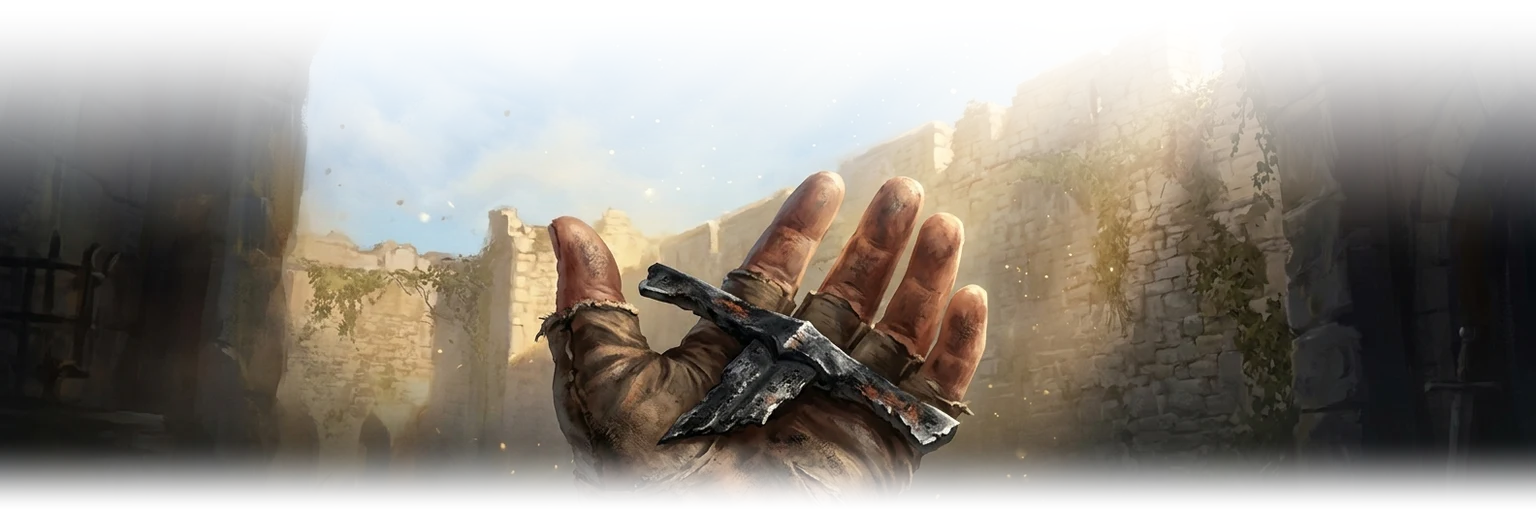
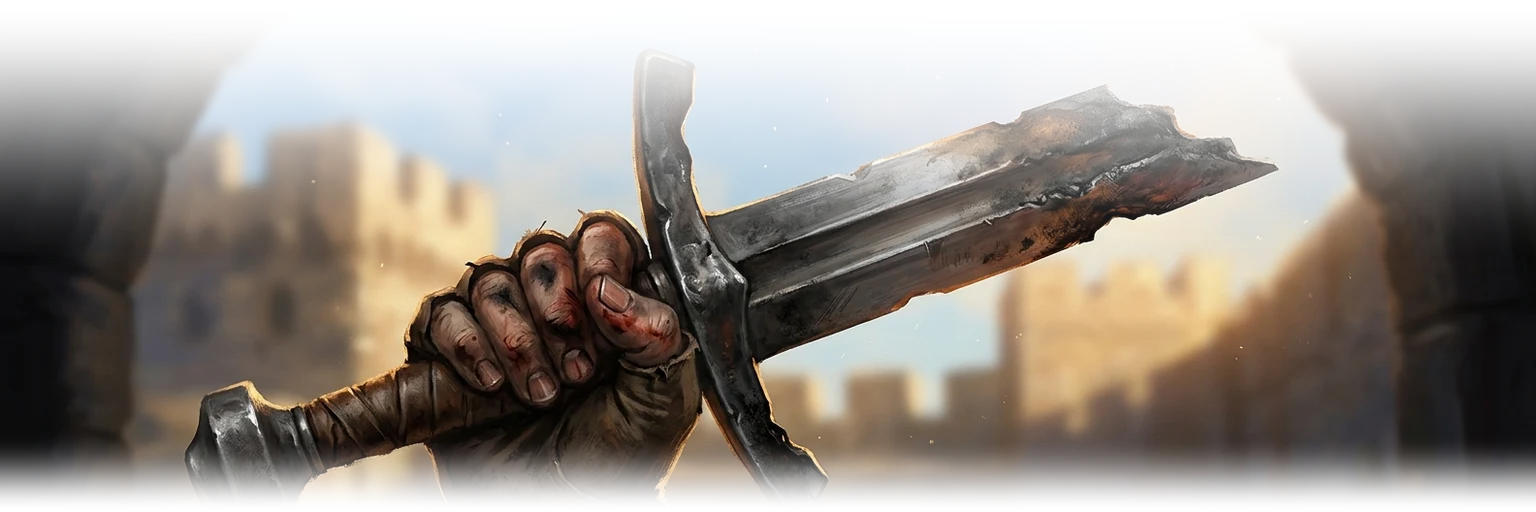
エピローグ帯絵を差し替え（折れた長剣）
Claude-Session: https://claude.ai/code/session_01U6RCeUyRPkXsPA3iMGBfiK

diff --git a/d/7cacfe2f4fa2ab5292eafa027fd28990/sw.js b/d/7cacfe2f4fa2ab5292eafa027fd28990/sw.js
@@ -1,4 +1,4 @@
-try{self[`workbox:core:7.4.0`]&&_()}catch{}var e=(e,...t)=>{let n=e;return t.length>0&&(n+=` :: ${JSON.stringify(t)}`),n},t=class extends Error{constructor(t,n){let r=e(t,n);super(r),this.name=t,this.details=n}},n=new Set,r={googleAnalytics:`googleAnalytics`,precache:`precache-v2`,prefix:`workbox`,runtime:`runtime`,suffix:typeof registration<`u`?registration.scope:``},i=e=>[r.prefix,e,r.suffix].filter(e=>e&&e.length>0).join(`-`),a=e=>{for(let t of Object.keys(r))e(t)},o={updateDetails:e=>{a(t=>{typeof e[t]==`string`&&(r[t]=e[t])})},getGoogleAnalyticsName:e=>e||i(r.googleAnalytics),getPrecacheName:e=>e||i(r.precache),getPrefix:()=>r.prefix,getRuntimeName:e=>e||i(r.runtime),getSuffix:()=>r.suffix};function s(e,t){let n=new URL(e);for(let e of t)n.searchParams.delete(e);return n.href}async function c(e,t,n,r){let i=s(t.url,n);if(t.url===i)return e.match(t,r);let a=Object.assign(Object.assign({},r),{ignoreSearch:!0}),o=await e.keys(t,a);for(let t of o)if(i===s(t.url,n))return e.match(t,r)}var l;function u(){if(l===void 0){let e=new Response(``);if(`body`in e)try{new Response(e.body),l=!0}catch{l=!1}l=!1}return l}var d=class{constructor(){this.promise=new Promise((e,t)=>{this.resolve=e,this.reject=t})}};async function f(){for(let e of n)await e()}var p=e=>new URL(String(e),location.href).href.replace(RegExp(`^${location.origin}`),``);function m(e){return new Promise(t=>setTimeout(t,e))}function h(e,t){let n=t();return e.waitUntil(n),n}var g={get googleAnalytics(){return o.getGoogleAnalyticsName()},get precache(){return o.getPrecacheName()},get prefix(){return o.getPrefix()},get runtime(){return o.getRuntimeName()},get suffix(){return o.getSuffix()}};async function v(e,n){let r=null;if(e.url&&(r=new URL(e.url).origin),r!==self.location.origin)throw new t(`cross-origin-copy-response`,{origin:r});let i=e.clone(),a={headers:new Headers(i.headers),status:i.status,statusText:i.statusText},o=n?n(a):a,s=u()?i.body:await i.blob();return new Response(s,o)}try{self[`workbox:precaching:7.4.0`]&&_()}catch{}var y=`__WB_REVISION__`;function b(e){if(!e)throw new t(`add-to-cache-list-unexpected-type`,{entry:e});if(typeof e==`string`){let t=new URL(e,location.href);return{cacheKey:t.href,url:t.href}}let{revision:n,url:r}=e;if(!r)throw new t(`add-to-cache-list-unexpected-type`,{entry:e});if(!n){let e=new URL(r,location.href);return{cacheKey:e.href,url:e.href}}let i=new URL(r,location.href),a=new URL(r,location.href);return i.searchParams.set(y,n),{cacheKey:i.href,url:a.href}}var x=class{constructor(){this.updatedURLs=[],this.notUpdatedURLs=[],this.handlerWillStart=async({request:e,state:t})=>{t&&(t.originalRequest=e)},this.cachedResponseWillBeUsed=async({event:e,state:t,cachedResponse:n})=>{if(e.type===`install`&&t&&t.originalRequest&&t.originalRequest instanceof Request){let e=t.originalRequest.url;n?this.notUpdatedURLs.push(e):this.updatedURLs.push(e)}return n}}},S=class{constructor({precacheController:e}){this.cacheKeyWillBeUsed=async({request:e,params:t})=>{let n=t?.cacheKey||this._precacheController.getCacheKeyForURL(e.url);return n?new Request(n,{headers:e.headers}):e},this._precacheController=e}};try{self[`workbox:strategies:7.4.0`]&&_()}catch{}function C(e){return typeof e==`string`?new Request(e):e}var w=class{constructor(e,t){this._cacheKeys={},Object.assign(this,t),this.event=t.event,this._strategy=e,this._handlerDeferred=new d,this._extendLifetimePromises=[],this._plugins=[...e.plugins],this._pluginStateMap=new Map;for(let e of this._plugins)this._pluginStateMap.set(e,{});this.event.waitUntil(this._handlerDeferred.promise)}async fetch(e){let{event:n}=this,r=C(e);if(r.mode===`navigate`&&n instanceof FetchEvent&&n.preloadResponse){let e=await n.preloadResponse;if(e)return e}let i=this.hasCallback(`fetchDidFail`)?r.clone():null;try{for(let e of this.iterateCallbacks(`requestWillFetch`))r=await e({request:r.clone(),event:n})}catch(e){if(e instanceof Error)throw new t(`plugin-error-request-will-fetch`,{thrownErrorMessage:e.message})}let a=r.clone();try{let e;e=await fetch(r,r.mode===`navigate`?void 0:this._strategy.fetchOptions);for(let t of this.iterateCallbacks(`fetchDidSucceed`))e=await t({event:n,request:a,response:e});return e}catch(e){throw i&&await this.runCallbacks(`fetchDidFail`,{error:e,event:n,originalRequest:i.clone(),request:a.clone()}),e}}async fetchAndCachePut(e){let t=await this.fetch(e),n=t.clone();return this.waitUntil(this.cachePut(e,n)),t}async cacheMatch(e){let t=C(e),n,{cacheName:r,matchOptions:i}=this._strategy,a=await this.getCacheKey(t,`read`),o=Object.assign(Object.assign({},i),{cacheName:r});n=await caches.match(a,o);for(let e of this.iterateCallbacks(`cachedResponseWillBeUsed`))n=await e({cacheName:r,matchOptions:i,cachedResponse:n,request:a,event:this.event})||void 0;return n}async cachePut(e,n){let r=C(e);await m(0);let i=await this.getCacheKey(r,`write`);if(!n)throw new t(`cache-put-with-no-response`,{url:p(i.url)});let a=await this._ensureResponseSafeToCache(n);if(!a)return!1;let{cacheName:o,matchOptions:s}=this._strategy,l=await self.caches.open(o),u=this.hasCallback(`cacheDidUpdate`),d=u?await c(l,i.clone(),[`__WB_REVISION__`],s):null;try{await l.put(i,u?a.clone():a)}catch(e){if(e instanceof Error)throw e.name===`QuotaExceededError`&&await f(),e}for(let e of this.iterateCallbacks(`cacheDidUpdate`))await e({cacheName:o,oldResponse:d,newResponse:a.clone(),request:i,event:this.event});return!0}async getCacheKey(e,t){let n=`${e.url} | ${t}`;if(!this._cacheKeys[n]){let r=e;for(let e of this.iterateCallbacks(`cacheKeyWillBeUsed`))r=C(await e({mode:t,request:r,event:this.event,params:this.params}));this._cacheKeys[n]=r}return this._cacheKeys[n]}hasCallback(e){for(let t of this._strategy.plugins)if(e in t)return!0;return!1}async runCallbacks(e,t){for(let n of this.iterateCallbacks(e))await n(t)}*iterateCallbacks(e){for(let t of this._strategy.plugins)if(typeof t[e]==`function`){let n=this._pluginStateMap.get(t);yield r=>{let i=Object.assign(Object.assign({},r),{state:n});return t[e](i)}}}waitUntil(e){return this._extendLifetimePromises.push(e),e}async doneWaiting(){for(;this._extendLifetimePromises.length;){let e=this._extendLifetimePromises.splice(0),t=(await Promise.allSettled(e)).find(e=>e.status===`rejected`);if(t)throw t.reason}}destroy(){this._handlerDeferred.resolve(null)}async _ensureResponseSafeToCache(e){let t=e,n=!1;for(let e of this.iterateCallbacks(`cacheWillUpdate`))if(t=await e({request:this.request,response:t,event:this.event})||void 0,n=!0,!t)break;return n||t&&t.status!==200&&(t=void 0),t}},T=class{constructor(e={}){this.cacheName=o.getRuntimeName(e.cacheName),this.plugins=e.plugins||[],this.fetchOptions=e.fetchOptions,this.matchOptions=e.matchOptions}handle(e){let[t]=this.handleAll(e);return t}handleAll(e){e instanceof FetchEvent&&(e={event:e,request:e.request});let t=e.event,n=typeof e.request==`string`?new Request(e.request):e.request,r=`params`in e?e.params:void 0,i=new w(this,{event:t,request:n,params:r}),a=this._getResponse(i,n,t);return[a,this._awaitComplete(a,i,n,t)]}async _getResponse(e,n,r){await e.runCallbacks(`handlerWillStart`,{event:r,request:n});let i;try{if(i=await this._handle(n,e),!i||i.type===`error`)throw new t(`no-response`,{url:n.url})}catch(t){if(t instanceof Error){for(let a of e.iterateCallbacks(`handlerDidError`))if(i=await a({error:t,event:r,request:n}),i)break}if(!i)throw t}for(let t of e.iterateCallbacks(`handlerWillRespond`))i=await t({event:r,request:n,response:i});return i}async _awaitComplete(e,t,n,r){let i,a;try{i=await e}catch{}try{await t.runCallbacks(`handlerDidRespond`,{event:r,request:n,response:i}),await t.doneWaiting()}catch(e){e instanceof Error&&(a=e)}if(await t.runCallbacks(`handlerDidComplete`,{event:r,request:n,response:i,error:a}),t.destroy(),a)throw a}},E=class e extends T{constructor(t={}){t.cacheName=o.getPrecacheName(t.cacheName),super(t),this._fallbackToNetwork=t.fallbackToNetwork!==!1,this.plugins.push(e.copyRedirectedCacheableResponsesPlugin)}async _handle(e,t){return await t.cacheMatch(e)||(t.event&&t.event.type===`install`?await this._handleInstall(e,t):await this._handleFetch(e,t))}async _handleFetch(e,n){let r,i=n.params||{};if(this._fallbackToNetwork){let t=i.integrity,a=e.integrity,o=!a||a===t;r=await n.fetch(new Request(e,{integrity:e.mode===`no-cors`?void 0:a||t})),t&&o&&e.mode!==`no-cors`&&(this._useDefaultCacheabilityPluginIfNeeded(),await n.cachePut(e,r.clone()))}else throw new t(`missing-precache-entry`,{cacheName:this.cacheName,url:e.url});return r}async _handleInstall(e,n){this._useDefaultCacheabilityPluginIfNeeded();let r=await n.fetch(e);if(!await n.cachePut(e,r.clone()))throw new t(`bad-precaching-response`,{url:e.url,status:r.status});return r}_useDefaultCacheabilityPluginIfNeeded(){let t=null,n=0;for(let[r,i]of this.plugins.entries())i!==e.copyRedirectedCacheableResponsesPlugin&&(i===e.defaultPrecacheCacheabilityPlugin&&(t=r),i.cacheWillUpdate&&n++);n===0?this.plugins.push(e.defaultPrecacheCacheabilityPlugin):n>1&&t!==null&&this.plugins.splice(t,1)}};E.defaultPrecacheCacheabilityPlugin={async cacheWillUpdate({response:e}){return!e||e.status>=400?null:e}},E.copyRedirectedCacheableResponsesPlugin={async cacheWillUpdate({response:e}){return e.redirected?await v(e):e}};var D=class{constructor({cacheName:e,plugins:t=[],fallbackToNetwork:n=!0}={}){this._urlsToCacheKeys=new Map,this._urlsToCacheModes=new Map,this._cacheKeysToIntegrities=new Map,this._strategy=new E({cacheName:o.getPrecacheName(e),plugins:[...t,new S({precacheController:this})],fallbackToNetwork:n}),this.install=this.install.bind(this),this.activate=this.activate.bind(this)}get strategy(){return this._strategy}precache(e){this.addToCacheList(e),this._installAndActiveListenersAdded||=(self.addEventListener(`install`,this.install),self.addEventListener(`activate`,this.activate),!0)}addToCacheList(e){let n=[];for(let r of e){typeof r==`string`?n.push(r):r&&r.revision===void 0&&n.push(r.url);let{cacheKey:e,url:i}=b(r),a=typeof r!=`string`&&r.revision?`reload`:`default`;if(this._urlsToCacheKeys.has(i)&&this._urlsToCacheKeys.get(i)!==e)throw new t(`add-to-cache-list-conflicting-entries`,{firstEntry:this._urlsToCacheKeys.get(i),secondEntry:e});if(typeof r!=`string`&&r.integrity){if(this._cacheKeysToIntegrities.has(e)&&this._cacheKeysToIntegrities.get(e)!==r.integrity)throw new t(`add-to-cache-list-conflicting-integrities`,{url:i});this._cacheKeysToIntegrities.set(e,r.integrity)}if(this._urlsToCacheKeys.set(i,e),this._urlsToCacheModes.set(i,a),n.length>0){let e=`Workbox is precaching URLs without revision info: ${n.join(`, `)}\nThis is generally NOT safe. Learn more at https://bit.ly/wb-precache`;console.warn(e)}}}install(e){return h(e,async()=>{let t=new x;this.strategy.plugins.push(t);for(let[t,n]of this._urlsToCacheKeys){let r=this._cacheKeysToIntegrities.get(n),i=this._urlsToCacheModes.get(t),a=new Request(t,{integrity:r,cache:i,credentials:`same-origin`});await Promise.all(this.strategy.handleAll({params:{cacheKey:n},request:a,event:e}))}let{updatedURLs:n,notUpdatedURLs:r}=t;return{updatedURLs:n,notUpdatedURLs:r}})}activate(e){return h(e,async()=>{let e=await self.caches.open(this.strategy.cacheName),t=await e.keys(),n=new Set(this._urlsToCacheKeys.values()),r=[];for(let i of t)n.has(i.url)||(await e.delete(i),r.push(i.url));return{deletedURLs:r}})}getURLsToCacheKeys(){return this._urlsToCacheKeys}getCachedURLs(){return[...this._urlsToCacheKeys.keys()]}getCacheKeyForURL(e){let t=new URL(e,location.href);return this._urlsToCacheKeys.get(t.href)}getIntegrityForCacheKey(e){return this._cacheKeysToIntegrities.get(e)}async matchPrecache(e){let t=e instanceof Request?e.url:e,n=this.getCacheKeyForURL(t);if(n)return(await self.caches.open(this.strategy.cacheName)).match(n)}createHandlerBoundToURL(e){let n=this.getCacheKeyForURL(e);if(!n)throw new t(`non-precached-url`,{url:e});return t=>(t.request=new Request(e),t.params=Object.assign({cacheKey:n},t.params),this.strategy.handle(t))}},O,k=()=>(O||=new D,O);try{self[`workbox:routing:7.4.0`]&&_()}catch{}var A=e=>e&&typeof e==`object`?e:{handle:e},j=class{constructor(e,t,n=`GET`){this.handler=A(t),this.match=e,this.method=n}setCatchHandler(e){this.catchHandler=A(e)}},M=class extends j{constructor(e,t,n){super(({url:t})=>{let n=e.exec(t.href);if(n&&(t.origin===location.origin||n.index===0))return n.slice(1)},t,n)}},N=class{constructor(){this._routes=new Map,this._defaultHandlerMap=new Map}get routes(){return this._routes}addFetchListener(){self.addEventListener(`fetch`,(e=>{let{request:t}=e,n=this.handleRequest({request:t,event:e});n&&e.respondWith(n)}))}addCacheListener(){self.addEventListener(`message`,(e=>{if(e.data&&e.data.type===`CACHE_URLS`){let{payload:t}=e.data,n=Promise.all(t.urlsToCache.map(t=>{typeof t==`string`&&(t=[t]);let n=new Request(...t);return this.handleRequest({request:n,event:e})}));e.waitUntil(n),e.ports&&e.ports[0]&&n.then(()=>e.ports[0].postMessage(!0))}}))}handleRequest({request:e,event:t}){let n=new URL(e.url,location.href);if(!n.protocol.startsWith(`http`))return;let r=n.origin===location.origin,{params:i,route:a}=this.findMatchingRoute({event:t,request:e,sameOrigin:r,url:n}),o=a&&a.handler,s=e.method;if(!o&&this._defaultHandlerMap.has(s)&&(o=this._defaultHandlerMap.get(s)),!o)return;let c;try{c=o.handle({url:n,request:e,event:t,params:i})}catch(e){c=Promise.reject(e)}let l=a&&a.catchHandler;return c instanceof Promise&&(this._catchHandler||l)&&(c=c.catch(async r=>{if(l)try{return await l.handle({url:n,request:e,event:t,params:i})}catch(e){e instanceof Error&&(r=e)}if(this._catchHandler)return this._catchHandler.handle({url:n,request:e,event:t});throw r})),c}findMatchingRoute({url:e,sameOrigin:t,request:n,event:r}){let i=this._routes.get(n.method)||[];for(let a of i){let i,o=a.match({url:e,sameOrigin:t,request:n,event:r});if(o)return i=o,(Array.isArray(i)&&i.length===0||o.constructor===Object&&Object.keys(o).length===0||typeof o==`boolean`)&&(i=void 0),{route:a,params:i}}return{}}setDefaultHandler(e,t=`GET`){this._defaultHandlerMap.set(t,A(e))}setCatchHandler(e){this._catchHandler=A(e)}registerRoute(e){this._routes.has(e.method)||this._routes.set(e.method,[]),this._routes.get(e.method).push(e)}unregisterRoute(e){if(!this._routes.has(e.method))throw new t(`unregister-route-but-not-found-with-method`,{method:e.method});let n=this._routes.get(e.method).indexOf(e);if(n>-1)this._routes.get(e.method).splice(n,1);else throw new t(`unregister-route-route-not-registered`)}},P,F=()=>(P||(P=new N,P.addFetchListener(),P.addCacheListener()),P);function I(e,n,r){let i;if(typeof e==`string`){let t=new URL(e,location.href);i=new j(({url:e})=>e.href===t.href,n,r)}else if(e instanceof RegExp)i=new M(e,n,r);else if(typeof e==`function`)i=new j(e,n,r);else if(e instanceof j)i=e;else throw new t(`unsupported-route-type`,{moduleName:`workbox-routing`,funcName:`registerRoute`,paramName:`capture`});return F().registerRoute(i),i}function L(e,t=[]){for(let n of[...e.searchParams.keys()])t.some(e=>e.test(n))&&e.searchParams.delete(n);return e}function*R(e,{ignoreURLParametersMatching:t=[/^utm_/,/^fbclid$/],directoryIndex:n=`index.html`,cleanURLs:r=!0,urlManipulation:i}={}){let a=new URL(e,location.href);a.hash=``,yield a.href;let o=L(a,t);if(yield o.href,n&&o.pathname.endsWith(`/`)){let e=new URL(o.href);e.pathname+=n,yield e.href}if(r){let e=new URL(o.href);e.pathname+=`.html`,yield e.href}if(i){let e=i({url:a});for(let t of e)yield t.href}}var z=class extends j{constructor(e,t){super(({request:n})=>{let r=e.getURLsToCacheKeys();for(let i of R(n.url,t)){let t=r.get(i);if(t)return{cacheKey:t,integrity:e.getIntegrityForCacheKey(t)}}},e.strategy)}};function B(e){I(new z(k(),e))}var V=`-precache-`,H=async(e,t=V)=>{let n=(await self.caches.keys()).filter(n=>n.includes(t)&&n.includes(self.registration.scope)&&n!==e);return await Promise.all(n.map(e=>self.caches.delete(e))),n};function U(){self.addEventListener(`activate`,(e=>{let t=o.getPrecacheName();e.waitUntil(H(t).then(e=>{}))}))}function W(e){return k().getCacheKeyForURL(e)}function G(e){return k().matchPrecache(e)}function K(e){k().precache(e)}function q(e,t){K(e),B(t)}var J=class extends j{constructor(e,{allowlist:t=[/./],denylist:n=[]}={}){super(e=>this._match(e),e),this._allowlist=t,this._denylist=n}_match({url:e,request:t}){if(t&&t.mode!==`navigate`)return!1;let n=e.pathname+e.search;for(let e of this._denylist)if(e.test(n))return!1;return!!this._allowlist.some(e=>e.test(n))}};function Y(e){F().setCatchHandler(e)}self.addEventListener(`message`,e=>{let t=e.data;t&&t.type===`SKIP_WAITING`&&self.skipWaiting(),t&&t.type===`FILL_PRECACHE`&&Array.isArray(t.urls)&&e.waitUntil(Z(t.urls.filter(e=>typeof e==`string`)))});async function X(e){for(let t of await self.clients.matchAll({includeUncontrolled:!0}))t.postMessage(e)}async function Z(e){let t=0,n=0,r=[...e],i=await caches.open(g.precache),a=async()=>{for(let a=r.shift();a!==void 0;a=r.shift()){try{let e=W(a),n=await fetch(a,{cache:`reload`});if(!e||!n.ok)throw Error(`fill failed`);await i.put(e,n),t++}catch{n++}await X({type:`FILL_PROGRESS`,done:t,failed:n,total:e.length})}};await Promise.all([a(),a(),a()]),await X({type:`FILL_DONE`,done:t,failed:n,total:e.length})}q([{"revision":"0c88d52f09954a22c233f74bddeaaa61","url":"manifest.webmanifest"},{"revision":"cb8472b5186c04734b51cc1546747417","url":"index.html"},{"revision":"128bbd2f0bfda005caa441e8e0f72903","url":"boot.js"},{"revision":"692b73f61dd24c16834ab385b7aad472","url":"sound/closing-signature.mp3"},{"revision":"abb7c5c26623e0d0ba377c5e5323c737","url":"icons/logo-text-vertical.svg"},{"revision":"f039940881be81382256a1e7798a43cf","url":"icons/logo-line-white.svg"},{"revision":"16fb2e72044edc5bb2e76f9b40d3dd2d","url":"icons/logo-line-indigo.svg"},{"revision":"9e8f2e5fd69c49d7d546e433b34d9099","url":"icons/icon-maskable-512.png"},{"revision":"515f3d79556d4fbc8fdc556234860abd","url":"icons/icon-512.png"},{"revision":"6dd3e358425fd785992253873db7137b","url":"icons/icon-192.png"},{"revision":"7c0b23e6b033e2606c454a51c6e9ddfe","url":"icons/apple-touch-icon.png"},{"revision":"00c94ed98bd5f1badda619d71238a2f2","url":"book/data.json"},{"revision":"1abefc9fbabf1e7f75cb65bc6e7fd884","url":"book/cover-art.webp"},{"revision":"4cf5fea75f1ef52e5eef8a53cb3209e7","url":"book/bg/ch5-bottom.webp"},{"revision":"57db860c6472dc568d8274222910b3c7","url":"book/bg/ch4-bottom.webp"},{"revision":"bfe3596763626d6c15cd3fd8ccbb17ba","url":"book/bg/ch3-bottom.webp"},{"revision":"cc403f52c908a366ca22b0839337bd8d","url":"book/bg/ch2-bottom.webp"},{"revision":"4803b5c3dec068edbc5b78518470c419","url":"book/bg/ch1-bottom.webp"},{"revision":"69089dc644f3504a091f57dcd25a1e07","url":"book/audio/title-call.mp3"},{"revision":"b90d2f422c8fd67a41028b648ee75959","url":"book/audio/ch5.mp3"},{"revision":"7141acca2a879bbc53f1c5b95e614ede","url":"book/audio/ch5-title.mp3"},{"revision":"4b905ddf7f1a76ce77707ba5d422afe7","url":"book/audio/ch4.mp3"},{"revision":"46587c493b6eb02155a00aad827945d8","url":"book/audio/ch4-title.mp3"},{"revision":"17931c713d91750b7e45cdebbdc522a0","url":"book/audio/ch3.mp3"},{"revision":"dff735ace5d8e02e5ca7d700fc48b785","url":"book/audio/ch3-title.mp3"},{"revision":"a3263720e9a637480ed9da3f402c6ca8","url":"book/audio/ch2.mp3"},{"revision":"ee58a877fc0f980660f01c43298845e4","url":"book/audio/ch2-title.mp3"},{"revision":"4fcf12d293cff6db9e01695c3e08c87b","url":"book/audio/ch1.mp3"},{"revision":"d203909cba635fdc4e14670fd4a06e7a","url":"book/audio/ch1-title.mp3"},{"revision":"ccd1ef48c0fcc8cd2002d793ba48fdc4","url":"bgm/loop.mp3"},{"revision":null,"url":"assets/workbox-window.prod.es5-Bd17z0YL.js"},{"revision":null,"url":"assets/index-kbH-_b36.css"},{"revision":null,"url":"assets/index-D9DEekBh.js"},{"revision":"7c0b23e6b033e2606c454a51c6e9ddfe","url":"icons/apple-touch-icon.png"},{"revision":"6dd3e358425fd785992253873db7137b","url":"icons/icon-192.png"},{"revision":"515f3d79556d4fbc8fdc556234860abd","url":"icons/icon-512.png"},{"revision":"9e8f2e5fd69c49d7d546e433b34d9099","url":"icons/icon-maskable-512.png"},{"revision":"0c88d52f09954a22c233f74bddeaaa61","url":"manifest.webmanifest"}]),U();var Q=`<!doctype html>
+try{self[`workbox:core:7.4.0`]&&_()}catch{}var e=(e,...t)=>{let n=e;return t.length>0&&(n+=` :: ${JSON.stringify(t)}`),n},t=class extends Error{constructor(t,n){let r=e(t,n);super(r),this.name=t,this.details=n}},n=new Set,r={googleAnalytics:`googleAnalytics`,precache:`precache-v2`,prefix:`workbox`,runtime:`runtime`,suffix:typeof registration<`u`?registration.scope:``},i=e=>[r.prefix,e,r.suffix].filter(e=>e&&e.length>0).join(`-`),a=e=>{for(let t of Object.keys(r))e(t)},o={updateDetails:e=>{a(t=>{typeof e[t]==`string`&&(r[t]=e[t])})},getGoogleAnalyticsName:e=>e||i(r.googleAnalytics),getPrecacheName:e=>e||i(r.precache),getPrefix:()=>r.prefix,getRuntimeName:e=>e||i(r.runtime),getSuffix:()=>r.suffix};function s(e,t){let n=new URL(e);for(let e of t)n.searchParams.delete(e);return n.href}async function c(e,t,n,r){let i=s(t.url,n);if(t.url===i)return e.match(t,r);let a=Object.assign(Object.assign({},r),{ignoreSearch:!0}),o=await e.keys(t,a);for(let t of o)if(i===s(t.url,n))return e.match(t,r)}var l;function u(){if(l===void 0){let e=new Response(``);if(`body`in e)try{new Response(e.body),l=!0}catch{l=!1}l=!1}return l}var d=class{constructor(){this.promise=new Promise((e,t)=>{this.resolve=e,this.reject=t})}};async function f(){for(let e of n)await e()}var p=e=>new URL(String(e),location.href).href.replace(RegExp(`^${location.origin}`),``);function m(e){return new Promise(t=>setTimeout(t,e))}function h(e,t){let n=t();return e.waitUntil(n),n}var g={get googleAnalytics(){return o.getGoogleAnalyticsName()},get precache(){return o.getPrecacheName()},get prefix(){return o.getPrefix()},get runtime(){return o.getRuntimeName()},get suffix(){return o.getSuffix()}};async function v(e,n){let r=null;if(e.url&&(r=new URL(e.url).origin),r!==self.location.origin)throw new t(`cross-origin-copy-response`,{origin:r});let i=e.clone(),a={headers:new Headers(i.headers),status:i.status,statusText:i.statusText},o=n?n(a):a,s=u()?i.body:await i.blob();return new Response(s,o)}try{self[`workbox:precaching:7.4.0`]&&_()}catch{}var y=`__WB_REVISION__`;function b(e){if(!e)throw new t(`add-to-cache-list-unexpected-type`,{entry:e});if(typeof e==`string`){let t=new URL(e,location.href);return{cacheKey:t.href,url:t.href}}let{revision:n,url:r}=e;if(!r)throw new t(`add-to-cache-list-unexpected-type`,{entry:e});if(!n){let e=new URL(r,location.href);return{cacheKey:e.href,url:e.href}}let i=new URL(r,location.href),a=new URL(r,location.href);return i.searchParams.set(y,n),{cacheKey:i.href,url:a.href}}var x=class{constructor(){this.updatedURLs=[],this.notUpdatedURLs=[],this.handlerWillStart=async({request:e,state:t})=>{t&&(t.originalRequest=e)},this.cachedResponseWillBeUsed=async({event:e,state:t,cachedResponse:n})=>{if(e.type===`install`&&t&&t.originalRequest&&t.originalRequest instanceof Request){let e=t.originalRequest.url;n?this.notUpdatedURLs.push(e):this.updatedURLs.push(e)}return n}}},S=class{constructor({precacheController:e}){this.cacheKeyWillBeUsed=async({request:e,params:t})=>{let n=t?.cacheKey||this._precacheController.getCacheKeyForURL(e.url);return n?new Request(n,{headers:e.headers}):e},this._precacheController=e}};try{self[`workbox:strategies:7.4.0`]&&_()}catch{}function C(e){return typeof e==`string`?new Request(e):e}var w=class{constructor(e,t){this._cacheKeys={},Object.assign(this,t),this.event=t.event,this._strategy=e,this._handlerDeferred=new d,this._extendLifetimePromises=[],this._plugins=[...e.plugins],this._pluginStateMap=new Map;for(let e of this._plugins)this._pluginStateMap.set(e,{});this.event.waitUntil(this._handlerDeferred.promise)}async fetch(e){let{event:n}=this,r=C(e);if(r.mode===`navigate`&&n instanceof FetchEvent&&n.preloadResponse){let e=await n.preloadResponse;if(e)return e}let i=this.hasCallback(`fetchDidFail`)?r.clone():null;try{for(let e of this.iterateCallbacks(`requestWillFetch`))r=await e({request:r.clone(),event:n})}catch(e){if(e instanceof Error)throw new t(`plugin-error-request-will-fetch`,{thrownErrorMessage:e.message})}let a=r.clone();try{let e;e=await fetch(r,r.mode===`navigate`?void 0:this._strategy.fetchOptions);for(let t of this.iterateCallbacks(`fetchDidSucceed`))e=await t({event:n,request:a,response:e});return e}catch(e){throw i&&await this.runCallbacks(`fetchDidFail`,{error:e,event:n,originalRequest:i.clone(),request:a.clone()}),e}}async fetchAndCachePut(e){let t=await this.fetch(e),n=t.clone();return this.waitUntil(this.cachePut(e,n)),t}async cacheMatch(e){let t=C(e),n,{cacheName:r,matchOptions:i}=this._strategy,a=await this.getCacheKey(t,`read`),o=Object.assign(Object.assign({},i),{cacheName:r});n=await caches.match(a,o);for(let e of this.iterateCallbacks(`cachedResponseWillBeUsed`))n=await e({cacheName:r,matchOptions:i,cachedResponse:n,request:a,event:this.event})||void 0;return n}async cachePut(e,n){let r=C(e);await m(0);let i=await this.getCacheKey(r,`write`);if(!n)throw new t(`cache-put-with-no-response`,{url:p(i.url)});let a=await this._ensureResponseSafeToCache(n);if(!a)return!1;let{cacheName:o,matchOptions:s}=this._strategy,l=await self.caches.open(o),u=this.hasCallback(`cacheDidUpdate`),d=u?await c(l,i.clone(),[`__WB_REVISION__`],s):null;try{await l.put(i,u?a.clone():a)}catch(e){if(e instanceof Error)throw e.name===`QuotaExceededError`&&await f(),e}for(let e of this.iterateCallbacks(`cacheDidUpdate`))await e({cacheName:o,oldResponse:d,newResponse:a.clone(),request:i,event:this.event});return!0}async getCacheKey(e,t){let n=`${e.url} | ${t}`;if(!this._cacheKeys[n]){let r=e;for(let e of this.iterateCallbacks(`cacheKeyWillBeUsed`))r=C(await e({mode:t,request:r,event:this.event,params:this.params}));this._cacheKeys[n]=r}return this._cacheKeys[n]}hasCallback(e){for(let t of this._strategy.plugins)if(e in t)return!0;return!1}async runCallbacks(e,t){for(let n of this.iterateCallbacks(e))await n(t)}*iterateCallbacks(e){for(let t of this._strategy.plugins)if(typeof t[e]==`function`){let n=this._pluginStateMap.get(t);yield r=>{let i=Object.assign(Object.assign({},r),{state:n});return t[e](i)}}}waitUntil(e){return this._extendLifetimePromises.push(e),e}async doneWaiting(){for(;this._extendLifetimePromises.length;){let e=this._extendLifetimePromises.splice(0),t=(await Promise.allSettled(e)).find(e=>e.status===`rejected`);if(t)throw t.reason}}destroy(){this._handlerDeferred.resolve(null)}async _ensureResponseSafeToCache(e){let t=e,n=!1;for(let e of this.iterateCallbacks(`cacheWillUpdate`))if(t=await e({request:this.request,response:t,event:this.event})||void 0,n=!0,!t)break;return n||t&&t.status!==200&&(t=void 0),t}},T=class{constructor(e={}){this.cacheName=o.getRuntimeName(e.cacheName),this.plugins=e.plugins||[],this.fetchOptions=e.fetchOptions,this.matchOptions=e.matchOptions}handle(e){let[t]=this.handleAll(e);return t}handleAll(e){e instanceof FetchEvent&&(e={event:e,request:e.request});let t=e.event,n=typeof e.request==`string`?new Request(e.request):e.request,r=`params`in e?e.params:void 0,i=new w(this,{event:t,request:n,params:r}),a=this._getResponse(i,n,t);return[a,this._awaitComplete(a,i,n,t)]}async _getResponse(e,n,r){await e.runCallbacks(`handlerWillStart`,{event:r,request:n});let i;try{if(i=await this._handle(n,e),!i||i.type===`error`)throw new t(`no-response`,{url:n.url})}catch(t){if(t instanceof Error){for(let a of e.iterateCallbacks(`handlerDidError`))if(i=await a({error:t,event:r,request:n}),i)break}if(!i)throw t}for(let t of e.iterateCallbacks(`handlerWillRespond`))i=await t({event:r,request:n,response:i});return i}async _awaitComplete(e,t,n,r){let i,a;try{i=await e}catch{}try{await t.runCallbacks(`handlerDidRespond`,{event:r,request:n,response:i}),await t.doneWaiting()}catch(e){e instanceof Error&&(a=e)}if(await t.runCallbacks(`handlerDidComplete`,{event:r,request:n,response:i,error:a}),t.destroy(),a)throw a}},E=class e extends T{constructor(t={}){t.cacheName=o.getPrecacheName(t.cacheName),super(t),this._fallbackToNetwork=t.fallbackToNetwork!==!1,this.plugins.push(e.copyRedirectedCacheableResponsesPlugin)}async _handle(e,t){return await t.cacheMatch(e)||(t.event&&t.event.type===`install`?await this._handleInstall(e,t):await this._handleFetch(e,t))}async _handleFetch(e,n){let r,i=n.params||{};if(this._fallbackToNetwork){let t=i.integrity,a=e.integrity,o=!a||a===t;r=await n.fetch(new Request(e,{integrity:e.mode===`no-cors`?void 0:a||t})),t&&o&&e.mode!==`no-cors`&&(this._useDefaultCacheabilityPluginIfNeeded(),await n.cachePut(e,r.clone()))}else throw new t(`missing-precache-entry`,{cacheName:this.cacheName,url:e.url});return r}async _handleInstall(e,n){this._useDefaultCacheabilityPluginIfNeeded();let r=await n.fetch(e);if(!await n.cachePut(e,r.clone()))throw new t(`bad-precaching-response`,{url:e.url,status:r.status});return r}_useDefaultCacheabilityPluginIfNeeded(){let t=null,n=0;for(let[r,i]of this.plugins.entries())i!==e.copyRedirectedCacheableResponsesPlugin&&(i===e.defaultPrecacheCacheabilityPlugin&&(t=r),i.cacheWillUpdate&&n++);n===0?this.plugins.push(e.defaultPrecacheCacheabilityPlugin):n>1&&t!==null&&this.plugins.splice(t,1)}};E.defaultPrecacheCacheabilityPlugin={async cacheWillUpdate({response:e}){return!e||e.status>=400?null:e}},E.copyRedirectedCacheableResponsesPlugin={async cacheWillUpdate({response:e}){return e.redirected?await v(e):e}};var D=class{constructor({cacheName:e,plugins:t=[],fallbackToNetwork:n=!0}={}){this._urlsToCacheKeys=new Map,this._urlsToCacheModes=new Map,this._cacheKeysToIntegrities=new Map,this._strategy=new E({cacheName:o.getPrecacheName(e),plugins:[...t,new S({precacheController:this})],fallbackToNetwork:n}),this.install=this.install.bind(this),this.activate=this.activate.bind(this)}get strategy(){return this._strategy}precache(e){this.addToCacheList(e),this._installAndActiveListenersAdded||=(self.addEventListener(`install`,this.install),self.addEventListener(`activate`,this.activate),!0)}addToCacheList(e){let n=[];for(let r of e){typeof r==`string`?n.push(r):r&&r.revision===void 0&&n.push(r.url);let{cacheKey:e,url:i}=b(r),a=typeof r!=`string`&&r.revision?`reload`:`default`;if(this._urlsToCacheKeys.has(i)&&this._urlsToCacheKeys.get(i)!==e)throw new t(`add-to-cache-list-conflicting-entries`,{firstEntry:this._urlsToCacheKeys.get(i),secondEntry:e});if(typeof r!=`string`&&r.integrity){if(this._cacheKeysToIntegrities.has(e)&&this._cacheKeysToIntegrities.get(e)!==r.integrity)throw new t(`add-to-cache-list-conflicting-integrities`,{url:i});this._cacheKeysToIntegrities.set(e,r.integrity)}if(this._urlsToCacheKeys.set(i,e),this._urlsToCacheModes.set(i,a),n.length>0){let e=`Workbox is precaching URLs without revision info: ${n.join(`, `)}\nThis is generally NOT safe. Learn more at https://bit.ly/wb-precache`;console.warn(e)}}}install(e){return h(e,async()=>{let t=new x;this.strategy.plugins.push(t);for(let[t,n]of this._urlsToCacheKeys){let r=this._cacheKeysToIntegrities.get(n),i=this._urlsToCacheModes.get(t),a=new Request(t,{integrity:r,cache:i,credentials:`same-origin`});await Promise.all(this.strategy.handleAll({params:{cacheKey:n},request:a,event:e}))}let{updatedURLs:n,notUpdatedURLs:r}=t;return{updatedURLs:n,notUpdatedURLs:r}})}activate(e){return h(e,async()=>{let e=await self.caches.open(this.strategy.cacheName),t=await e.keys(),n=new Set(this._urlsToCacheKeys.values()),r=[];for(let i of t)n.has(i.url)||(await e.delete(i),r.push(i.url));return{deletedURLs:r}})}getURLsToCacheKeys(){return this._urlsToCacheKeys}getCachedURLs(){return[...this._urlsToCacheKeys.keys()]}getCacheKeyForURL(e){let t=new URL(e,location.href);return this._urlsToCacheKeys.get(t.href)}getIntegrityForCacheKey(e){return this._cacheKeysToIntegrities.get(e)}async matchPrecache(e){let t=e instanceof Request?e.url:e,n=this.getCacheKeyForURL(t);if(n)return(await self.caches.open(this.strategy.cacheName)).match(n)}createHandlerBoundToURL(e){let n=this.getCacheKeyForURL(e);if(!n)throw new t(`non-precached-url`,{url:e});return t=>(t.request=new Request(e),t.params=Object.assign({cacheKey:n},t.params),this.strategy.handle(t))}},O,k=()=>(O||=new D,O);try{self[`workbox:routing:7.4.0`]&&_()}catch{}var A=e=>e&&typeof e==`object`?e:{handle:e},j=class{constructor(e,t,n=`GET`){this.handler=A(t),this.match=e,this.method=n}setCatchHandler(e){this.catchHandler=A(e)}},M=class extends j{constructor(e,t,n){super(({url:t})=>{let n=e.exec(t.href);if(n&&(t.origin===location.origin||n.index===0))return n.slice(1)},t,n)}},N=class{constructor(){this._routes=new Map,this._defaultHandlerMap=new Map}get routes(){return this._routes}addFetchListener(){self.addEventListener(`fetch`,(e=>{let{request:t}=e,n=this.handleRequest({request:t,event:e});n&&e.respondWith(n)}))}addCacheListener(){self.addEventListener(`message`,(e=>{if(e.data&&e.data.type===`CACHE_URLS`){let{payload:t}=e.data,n=Promise.all(t.urlsToCache.map(t=>{typeof t==`string`&&(t=[t]);let n=new Request(...t);return this.handleRequest({request:n,event:e})}));e.waitUntil(n),e.ports&&e.ports[0]&&n.then(()=>e.ports[0].postMessage(!0))}}))}handleRequest({request:e,event:t}){let n=new URL(e.url,location.href);if(!n.protocol.startsWith(`http`))return;let r=n.origin===location.origin,{params:i,route:a}=this.findMatchingRoute({event:t,request:e,sameOrigin:r,url:n}),o=a&&a.handler,s=e.method;if(!o&&this._defaultHandlerMap.has(s)&&(o=this._defaultHandlerMap.get(s)),!o)return;let c;try{c=o.handle({url:n,request:e,event:t,params:i})}catch(e){c=Promise.reject(e)}let l=a&&a.catchHandler;return c instanceof Promise&&(this._catchHandler||l)&&(c=c.catch(async r=>{if(l)try{return await l.handle({url:n,request:e,event:t,params:i})}catch(e){e instanceof Error&&(r=e)}if(this._catchHandler)return this._catchHandler.handle({url:n,request:e,event:t});throw r})),c}findMatchingRoute({url:e,sameOrigin:t,request:n,event:r}){let i=this._routes.get(n.method)||[];for(let a of i){let i,o=a.match({url:e,sameOrigin:t,request:n,event:r});if(o)return i=o,(Array.isArray(i)&&i.length===0||o.constructor===Object&&Object.keys(o).length===0||typeof o==`boolean`)&&(i=void 0),{route:a,params:i}}return{}}setDefaultHandler(e,t=`GET`){this._defaultHandlerMap.set(t,A(e))}setCatchHandler(e){this._catchHandler=A(e)}registerRoute(e){this._routes.has(e.method)||this._routes.set(e.method,[]),this._routes.get(e.method).push(e)}unregisterRoute(e){if(!this._routes.has(e.method))throw new t(`unregister-route-but-not-found-with-method`,{method:e.method});let n=this._routes.get(e.method).indexOf(e);if(n>-1)this._routes.get(e.method).splice(n,1);else throw new t(`unregister-route-route-not-registered`)}},P,F=()=>(P||(P=new N,P.addFetchListener(),P.addCacheListener()),P);function I(e,n,r){let i;if(typeof e==`string`){let t=new URL(e,location.href);i=new j(({url:e})=>e.href===t.href,n,r)}else if(e instanceof RegExp)i=new M(e,n,r);else if(typeof e==`function`)i=new j(e,n,r);else if(e instanceof j)i=e;else throw new t(`unsupported-route-type`,{moduleName:`workbox-routing`,funcName:`registerRoute`,paramName:`capture`});return F().registerRoute(i),i}function L(e,t=[]){for(let n of[...e.searchParams.keys()])t.some(e=>e.test(n))&&e.searchParams.delete(n);return e}function*R(e,{ignoreURLParametersMatching:t=[/^utm_/,/^fbclid$/],directoryIndex:n=`index.html`,cleanURLs:r=!0,urlManipulation:i}={}){let a=new URL(e,location.href);a.hash=``,yield a.href;let o=L(a,t);if(yield o.href,n&&o.pathname.endsWith(`/`)){let e=new URL(o.href);e.pathname+=n,yield e.href}if(r){let e=new URL(o.href);e.pathname+=`.html`,yield e.href}if(i){let e=i({url:a});for(let t of e)yield t.href}}var z=class extends j{constructor(e,t){super(({request:n})=>{let r=e.getURLsToCacheKeys();for(let i of R(n.url,t)){let t=r.get(i);if(t)return{cacheKey:t,integrity:e.getIntegrityForCacheKey(t)}}},e.strategy)}};function B(e){I(new z(k(),e))}var V=`-precache-`,H=async(e,t=V)=>{let n=(await self.caches.keys()).filter(n=>n.includes(t)&&n.includes(self.registration.scope)&&n!==e);return await Promise.all(n.map(e=>self.caches.delete(e))),n};function U(){self.addEventListener(`activate`,(e=>{let t=o.getPrecacheName();e.waitUntil(H(t).then(e=>{}))}))}function W(e){return k().getCacheKeyForURL(e)}function G(e){return k().matchPrecache(e)}function K(e){k().precache(e)}function q(e,t){K(e),B(t)}var J=class extends j{constructor(e,{allowlist:t=[/./],denylist:n=[]}={}){super(e=>this._match(e),e),this._allowlist=t,this._denylist=n}_match({url:e,request:t}){if(t&&t.mode!==`navigate`)return!1;let n=e.pathname+e.search;for(let e of this._denylist)if(e.test(n))return!1;return!!this._allowlist.some(e=>e.test(n))}};function Y(e){F().setCatchHandler(e)}self.addEventListener(`message`,e=>{let t=e.data;t&&t.type===`SKIP_WAITING`&&self.skipWaiting(),t&&t.type===`FILL_PRECACHE`&&Array.isArray(t.urls)&&e.waitUntil(Z(t.urls.filter(e=>typeof e==`string`)))});async function X(e){for(let t of await self.clients.matchAll({includeUncontrolled:!0}))t.postMessage(e)}async function Z(e){let t=0,n=0,r=[...e],i=await caches.open(g.precache),a=async()=>{for(let a=r.shift();a!==void 0;a=r.shift()){try{let e=W(a),n=await fetch(a,{cache:`reload`});if(!e||!n.ok)throw Error(`fill failed`);await i.put(e,n),t++}catch{n++}await X({type:`FILL_PROGRESS`,done:t,failed:n,total:e.length})}};await Promise.all([a(),a(),a()]),await X({type:`FILL_DONE`,done:t,failed:n,total:e.length})}q([{"revision":"0c88d52f09954a22c233f74bddeaaa61","url":"manifest.webmanifest"},{"revision":"cb8472b5186c04734b51cc1546747417","url":"index.html"},{"revision":"128bbd2f0bfda005caa441e8e0f72903","url":"boot.js"},{"revision":"692b73f61dd24c16834ab385b7aad472","url":"sound/closing-signature.mp3"},{"revision":"abb7c5c26623e0d0ba377c5e5323c737","url":"icons/logo-text-vertical.svg"},{"revision":"f039940881be81382256a1e7798a43cf","url":"icons/logo-line-white.svg"},{"revision":"16fb2e72044edc5bb2e76f9b40d3dd2d","url":"icons/logo-line-indigo.svg"},{"revision":"9e8f2e5fd69c49d7d546e433b34d9099","url":"icons/icon-maskable-512.png"},{"revision":"515f3d79556d4fbc8fdc556234860abd","url":"icons/icon-512.png"},{"revision":"6dd3e358425fd785992253873db7137b","url":"icons/icon-192.png"},{"revision":"7c0b23e6b033e2606c454a51c6e9ddfe","url":"icons/apple-touch-icon.png"},{"revision":"00c94ed98bd5f1badda619d71238a2f2","url":"book/data.json"},{"revision":"1abefc9fbabf1e7f75cb65bc6e7fd884","url":"book/cover-art.webp"},{"revision":"d9cc1b4ec477b13fbd31ff2f86ccaf2e","url":"book/bg/ch5-bottom.webp"},{"revision":"57db860c6472dc568d8274222910b3c7","url":"book/bg/ch4-bottom.webp"},{"revision":"bfe3596763626d6c15cd3fd8ccbb17ba","url":"book/bg/ch3-bottom.webp"},{"revision":"cc403f52c908a366ca22b0839337bd8d","url":"book/bg/ch2-bottom.webp"},{"revision":"4803b5c3dec068edbc5b78518470c419","url":"book/bg/ch1-bottom.webp"},{"revision":"69089dc644f3504a091f57dcd25a1e07","url":"book/audio/title-call.mp3"},{"revision":"b90d2f422c8fd67a41028b648ee75959","url":"book/audio/ch5.mp3"},{"revision":"7141acca2a879bbc53f1c5b95e614ede","url":"book/audio/ch5-title.mp3"},{"revision":"4b905ddf7f1a76ce77707ba5d422afe7","url":"book/audio/ch4.mp3"},{"revision":"46587c493b6eb02155a00aad827945d8","url":"book/audio/ch4-title.mp3"},{"revision":"17931c713d91750b7e45cdebbdc522a0","url":"book/audio/ch3.mp3"},{"revision":"dff735ace5d8e02e5ca7d700fc48b785","url":"book/audio/ch3-title.mp3"},{"revision":"a3263720e9a637480ed9da3f402c6ca8","url":"book/audio/ch2.mp3"},{"revision":"ee58a877fc0f980660f01c43298845e4","url":"book/audio/ch2-title.mp3"},{"revision":"4fcf12d293cff6db9e01695c3e08c87b","url":"book/audio/ch1.mp3"},{"revision":"d203909cba635fdc4e14670fd4a06e7a","url":"book/audio/ch1-title.mp3"},{"revision":"ccd1ef48c0fcc8cd2002d793ba48fdc4","url":"bgm/loop.mp3"},{"revision":null,"url":"assets/workbox-window.prod.es5-Bd17z0YL.js"},{"revision":null,"url":"assets/index-kbH-_b36.css"},{"revision":null,"url":"assets/index-D9DEekBh.js"},{"revision":"7c0b23e6b033e2606c454a51c6e9ddfe","url":"icons/apple-touch-icon.png"},{"revision":"6dd3e358425fd785992253873db7137b","url":"icons/icon-192.png"},{"revision":"515f3d79556d4fbc8fdc556234860abd","url":"icons/icon-512.png"},{"revision":"9e8f2e5fd69c49d7d546e433b34d9099","url":"icons/icon-maskable-512.png"},{"revision":"0c88d52f09954a22c233f74bddeaaa61","url":"manifest.webmanifest"}]),U();var Q=`<!doctype html>
 <html lang="ja">
 <head>
 <meta charset="utf-8">
